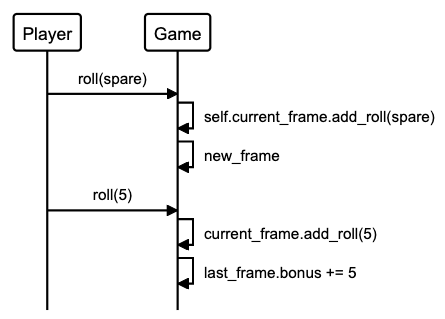
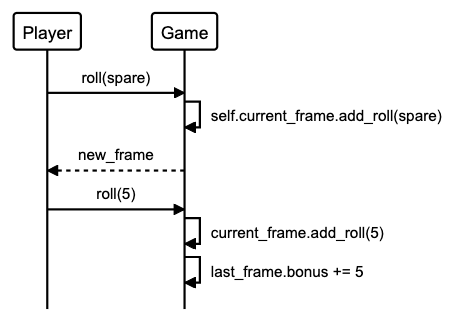
implements strike bonus logic, needs some refactoring

Changed region(s): [[0.0, 0.0282, 0.9933, 0.9875]]

diff --git a/spec/game_spec.rb b/spec/game_spec.rb
@@ -1,7 +1,7 @@
 describe Game do
   subject { described_class.new(frame_class) }
-  let(:frame) { instance_double(Frame, 'frame', add_roll: nil, over?: false) }
-  let(:frame_class) { class_double(Frame, 'Frame', new: frame) }
+  let(:frame) { instance_double(Frame, :frame, add_roll: nil, over?: false) }
+  let(:frame_class) { class_double(Frame, :frame_class, new: frame) }
 
   describe '#score' do
     it 'starts at zero' do
@@ -43,23 +43,55 @@ describe Game do
     end
 
     context 'adding spare bonus' do
-      it 'adds the score of first role to the last frame bonus' do
-        allow(frame).to receive_messages(:spare? => true, roll2: nil)
-        subject.frames << frame
+      let(:spare) { instance_double(Frame, :spare, spare?: true, strike?: false) }
 
-        expect(frame).to receive(:add_bonus).once.with(5)
+      it 'adds the next roll to the last frame bonus' do
+        expect(spare).to receive(:add_bonus).once.with(5)
+        subject.frames << spare
+
+        allow(frame).to receive(:rolls).and_return([5])
         subject.add_roll(5)
       end
 
-      it 'does not add the score of second roll to bonus' do
-        allow(frame).to receive_messages(:spare? => true, roll2: nil)
-        subject.frames << frame
+      it 'does not add the score of second roll' do
+        expect(spare).to receive(:add_bonus).once.with(5)
+        subject.frames << spare
 
-        expect(frame).to receive(:add_bonus).once.with(5)
+        allow(frame).to receive(:rolls).and_return([5])
         subject.add_roll(5)
 
-        allow(frame).to receive(:roll2).and_return(5)
+        allow(frame).to receive(:rolls).and_return([5, 5])
         subject.add_roll(5)
+      end
+    end
+
+    context 'adding strike bonus' do
+      let(:strike1) { instance_double(Frame, :strike1, strike?: true, spare?: false) }
+      let(:strike2) { instance_double(Frame, :strike2, strike?: true, spare?: false, rolls: [10]) }
+
+      it 'adds the next 2 rolls to the bonus' do
+        expect(strike1).to receive(:add_bonus).twice.with(5)
+        subject.frames << strike1
+
+        allow(frame).to receive(:rolls).and_return([5])
+        subject.add_roll(5)
+
+        allow(frame).to receive(:rolls).and_return([5, 5])
+        subject.add_roll(5)
+      end
+
+      context 'player gets 3 strikes in a row' do
+        it 'adds both following strikes to bonus' do
+          expect(strike1).to receive(:add_bonus).twice.with(10)
+          expect(strike2).to receive(:add_bonus).once.with(10)
+          allow(frame).to receive(:rolls).and_return([10])
+
+          subject.frames << strike1
+          subject.add_roll(10)
+
+          subject.frames << strike2
+          subject.add_roll(10)
+        end
       end
     end
   end

diff --git a/spec/frame_spec.rb b/spec/frame_spec.rb
@@ -5,6 +5,12 @@ describe Frame do
     end
   end
 
+  describe '#rolls' do
+    it 'starts empty' do
+      expect(subject.rolls).to be_empty
+    end
+  end
+
   describe '#add_roll' do
     context 'first roll' do
       it 'is added to score' do
@@ -12,9 +18,9 @@ describe Frame do
         expect(subject.score).to be 3
       end
 
-      it 'is recorded in roll1' do
+      it 'is added to rolls' do
         subject.add_roll(3)
-        expect(subject.roll1).to be 3
+        expect(subject.rolls.last).to be 3
       end
     end
 
@@ -28,13 +34,13 @@ describe Frame do
       it 'is recorded in roll2' do
         subject.add_roll(3)
         subject.add_roll(5)
-        expect(subject.roll2).to be 5
+        expect(subject.rolls.last).to be 5
       end
 
       it 'does not change roll1' do
         subject.add_roll(3)
         subject.add_roll(5)
-        expect(subject.roll1).to be 3
+        expect(subject.rolls.first).to be 3
       end
     end
 
@@ -124,10 +130,15 @@ describe Frame do
         subject.add_roll(2)
         expect(subject).not_to be_spare
       end
+
+      it 'returns false for a strike' do
+        subject.add_roll(10)
+        expect(subject).not_to be_spare
+      end
     end
   end
 
-  describe 'add_bonus' do
+  describe '#add_bonus' do
     it 'adds a score to the bonus' do
       expect { subject.add_bonus(2) }.to change { subject.bonus }.by(2)
     end

diff --git a/lib/frame.rb b/lib/frame.rb
@@ -1,33 +1,35 @@
 class Frame
   TOTAL_PINS = 10
 
-  attr_reader :score, :roll1, :roll2, :remaining_pins, :bonus
+  attr_reader :remaining_pins, :bonus, :rolls
 
   def initialize
-    @score = 0
     @bonus = 0
+    @rolls = []
     @remaining_pins = TOTAL_PINS
+  end
+
+  def score
+    rolls.sum + bonus
   end
 
   def add_roll(pins)
     raise PinError if pins > remaining_pins
 
-    self.roll2 = pins if roll1
-    self.roll1 = pins unless roll2
-    self.score += pins
     self.remaining_pins -= pins
+    rolls << pins
   end
 
   def over?
-    !!roll2 || roll1 == TOTAL_PINS
+    rolls.count == 2 || strike?
   end
 
   def spare?
-    roll1 + roll2 == TOTAL_PINS
+    rolls.sum == TOTAL_PINS && !strike?
   end
 
   def strike?
-    roll1 == TOTAL_PINS
+    rolls.first == TOTAL_PINS
   end
 
   def add_bonus(pins)
@@ -36,5 +38,5 @@ class Frame
 
   private
 
-  attr_writer :score, :roll1, :roll2, :remaining_pins, :bonus
+  attr_writer :score, :remaining_pins, :bonus
 end

diff --git a/lib/game.rb b/lib/game.rb
@@ -32,6 +32,14 @@ class Game
   def add_bonus(pins)
     return if frames.empty?
 
-    frames.last.add_bonus(pins) if frames.last.spare? && !current_frame.roll2
+    frames.last.add_bonus(pins) if frames.last.spare? && current_frame.rolls.count < 2
+    frames.last.add_bonus(pins) if frames.last.strike?
+    return if frames.count < 2
+
+    frames[-2].add_bonus(pins) if frames[-2].strike? && number_of_rolls <= 2
+  end
+
+  def number_of_rolls
+    (frames.last.rolls + current_frame.rolls).count
   end
 end

diff --git a/sequence_diagram_models.md b/sequence_diagram_models.md
@@ -6,8 +6,12 @@ alias p = "Player"
 alias g = "Game"
 alias f = "Frame"
 
-p->g: "roll(pins)"
-g->g: "current_frame.roll1 = pins"
+p->g: "roll(7)"
+g->g: "current_frame.add_roll(7)"
+p->g: "roll(2)"
+g->g: "current_frame.add_roll(2)"
+g->g: "frames << current_frame"
+g-->p: "new_frame"
 ```
 
 ## Spare bonus
@@ -18,8 +22,26 @@ alias f = "Frame"
 
 p->g: "roll(spare)"
 g->g: "self.current_frame.add_roll(spare)"
-g->g: "new_frame"
+g-->p: "new_frame"
 p->g: "roll(5)"
 g->g: "current_frame.add_roll(5)"
 g->g: "last_frame.bonus += 5"
+```
+
+## Strike bonus
+```flow
+alias p = "Player"
+alias g = "Game"
+alias f = "Frame"
+
+p->g: "roll(strike)"
+g->g: "current_frame.add_roll(10)"
+g-->p: "new_frame"
+p->g: "roll(5)"
+g->g: "current_frame.add_roll(5)"
+g->g: "frames.last.add_bonus(5)"
+p->g: "roll(4)"
+g->g: "current_frame.add_roll(4)"
+g->g: "frames.last.add_bonus(5)"
+g-->p: "new_frame"
 ```

diff --git a/README.md b/README.md
@@ -82,14 +82,17 @@ Frame   | frame.score -> sum of 2 rolls or 1 roll if strike
 
 ### sequence diagrams
 
-Two roll frame:
+Standard frame:
 
-![two roll frame](images/two-roll-frame.png)
-
+![standard frame](images/standard-frame.png)
 
 Spare bonus:
 
 ![spare bonus](images/spare-bonus.png)
+
+Strike bonus
+
+![strike bonus](images/strike-bonus.png)
 
 ----
 
